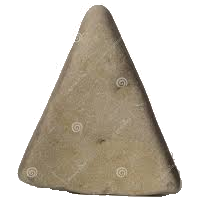
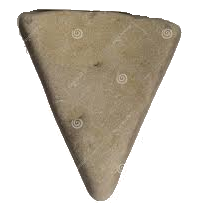
Force sync local -> remote main

diff --git a/transparencia.py b/transparencia.py
@@ -1,15 +1,16 @@
-from PIL import Image
+from PIL import Image, ImageFilter
 import sys
 
-def remover_fundo_solido(input_path, output_path, threshold=10):
+def remover_fundo_solido(input_path, output_path, threshold=10, remover_borda_branca=True, suavizar_bordas=True):
     """
     Transforma o fundo de cor sólida de uma imagem em transparente.
 
     Argumentos:
     input_path (str): Caminho para a imagem de entrada (JPG, PNG, etc.).
     output_path (str): Caminho para salvar a imagem de saída (será PNG).
-    threshold (int): Tolerância para cores 'semelhantes' ao fundo.
-                     Aumente se o fundo não for perfeitamente uniforme.
+    threshold (int): Tolerância para cores 'semelhantes' ao fundo (padrão: 10).
+    remover_borda_branca (bool): Remove bordas brancas/claras automaticamente (padrão: True).
+    suavizar_bordas (bool): Aplica transparência gradual nas bordas (padrão: True).
     """
     try:
         # Abrir a imagem
@@ -22,40 +23,49 @@ def remover_fundo_solido(input_path, output_path, threshold=10):
         return
 
     # Converter a imagem para RGBA (Vermelho, Verde, Azul, Alfa/Transparência)
-    # Isso é essencial para ter um canal de transparência.
     img = img.convert("RGBA")
+    width, height = img.size
 
     # Obter os dados de todos os pixels da imagem
     datas = img.getdata()
 
-    # Lista para armazenar os novos dados dos pixels
-    newData = []
-
     # Determinar a cor de fundo pegando o primeiro pixel (canto superior esquerdo)
-    # Assumimos que este pixel é representativo do fundo inteiro.
     bg_color = datas[0]
 
     print(f"Cor de fundo detectada (R,G,B,A): {bg_color}")
     print("Processando imagem...")
 
+    # Lista para armazenar os novos dados dos pixels
+    newData = []
+
     # Iterar por cada pixel
     for item in datas:
-        # Compara o pixel (R,G,B) atual com a cor de fundo (R,G,B)
-        # Usamos um 'threshold' (limite de tolerância) para casos em que
-        # o fundo não é 100% de uma única cor (ex: artefatos de JPG).
-        if abs(item[0] - bg_color[0]) <= threshold and \
-           abs(item[1] - bg_color[1]) <= threshold and \
-           abs(item[2] - bg_color[2]) <= threshold:
-            
-            # Se for 'fundo', define o pixel como transparente (Alfa = 0)
+        # Calcular a diferença de cor em relação ao fundo
+        diff = abs(item[0] - bg_color[0]) + abs(item[1] - bg_color[1]) + abs(item[2] - bg_color[2])
+
+        if diff <= threshold * 3:
+            # Pixel é do fundo - tornar transparente
             newData.append((item[0], item[1], item[2], 0))
+        elif suavizar_bordas and diff <= threshold * 6:
+            # Pixel está na transição (borda) - aplicar transparência gradual
+            # Quanto mais próximo do fundo, mais transparente
+            alpha = int((diff - threshold * 3) / (threshold * 3) * 255)
+            newData.append((item[0], item[1], item[2], min(255, max(0, alpha))))
         else:
-            # Se for 'objeto' (a moeda), mantém o pixel opaco (Alfa = 255)
-            # O 'item' já tem Alfa 255 por causa do .convert("RGBA")
+            # Pixel é do objeto - manter opaco
             newData.append(item)
 
     # Aplicar os novos dados de pixel à imagem
     img.putdata(newData)
+
+    # ✅ REMOVER BORDAS BRANCAS (múltiplas passadas para ser mais agressivo)
+    if remover_borda_branca:
+        print("Removendo bordas brancas (passada 1/3)...")
+        img = remover_bordas_brancas(img, threshold_branco=200, raio=2)
+        print("Removendo bordas brancas (passada 2/3)...")
+        img = remover_bordas_brancas(img, threshold_branco=180, raio=1)
+        print("Removendo bordas brancas (passada 3/3)...")
+        img = remover_bordas_brancas(img, threshold_branco=160, raio=1)
 
     # Salvar a nova imagem como PNG (que suporta transparência)
     try:
@@ -65,26 +75,94 @@ def remover_fundo_solido(input_path, output_path, threshold=10):
         print(f"Erro ao salvar a imagem: {e}")
 
 
+def remover_bordas_brancas(img, threshold_branco=220, raio=1):
+    """
+    Remove pixels brancos/claros que estão próximos de áreas transparentes.
+
+    Args:
+        img: Imagem PIL em modo RGBA
+        threshold_branco: Valor mínimo RGB para considerar "branco" (0-255)
+        raio: Raio de busca por pixels transparentes (1 = 3x3, 2 = 5x5, etc.)
+
+    Returns:
+        Imagem PIL processada
+    """
+    width, height = img.size
+    pixels = img.load()
+
+    # Criar uma cópia para não modificar enquanto lê
+    resultado = img.copy()
+    pixels_resultado = resultado.load()
+
+    removidos = 0
+
+    # Percorrer todos os pixels
+    for y in range(height):
+        for x in range(width):
+            r, g, b, a = pixels[x, y]
+
+            # Se o pixel já é transparente, pular
+            if a < 10:
+                continue
+
+            # Verificar se é um pixel claro/branco (todos os canais RGB altos)
+            is_branco = r >= threshold_branco and g >= threshold_branco and b >= threshold_branco
+
+            if is_branco:
+                # Verificar se está próximo de área transparente
+                tem_transparente_perto = False
+
+                # Verificar vizinhos em um raio maior
+                for dy in range(-raio, raio + 1):
+                    for dx in range(-raio, raio + 1):
+                        nx, ny = x + dx, y + dy
+
+                        # Verificar limites
+                        if 0 <= nx < width and 0 <= ny < height:
+                            _, _, _, na = pixels[nx, ny]
+
+                            # Se algum vizinho é transparente ou semi-transparente
+                            if na < 128:
+                                tem_transparente_perto = True
+                                break
+
+                    if tem_transparente_perto:
+                        break
+
+                # Se tem transparente perto, remover o pixel branco
+                if tem_transparente_perto:
+                    pixels_resultado[x, y] = (r, g, b, 0)
+                    removidos += 1
+
+    print(f"  -> {removidos} pixels brancos removidos (threshold={threshold_branco}, raio={raio})")
+    return resultado
+
+
 # --- Como usar o script ---
 if __name__ == "__main__":
     # Verifique se os nomes dos arquivos foram passados como argumentos
     if len(sys.argv) < 3:
-        print("Uso: python transparencia.py <imagem_de_entrada> <imagem_de_saida>")
-        print("Exemplo: python transparencia.py minha_moeda.jpg moeda_transparente.png")
-        
-        # --- Ou descomente as linhas abaixo para testar ---
-        # print("Executando teste padrão...")
-        # # Coloque o nome da sua imagem de entrada aqui
-        # input_file = "minha_moeda.jpg" 
-        # # Nome do arquivo de saída
-        # output_file = "moeda_transparente.png"
-        # # Ajuste a tolerância se necessário
-        # tolerancia = 20 
-        # remover_fundo_solido(input_file, output_file, tolerancia)
+        print("=" * 70)
+        print("SCRIPT PARA REMOVER FUNDO E BORDAS BRANCAS DE IMAGENS")
+        print("=" * 70)
+        print("\nUso: python transparencia.py <entrada> <saida> [tolerancia]")
+        print("\nExemplos:")
+        print("  python transparencia.py moeda.jpg moeda_transparente.png")
+        print("  python transparencia.py item.jpg item.png 15")
+        print("\nNovos recursos:")
+        print("  [OK] Remove fundo de cor solida")
+        print("  [OK] Remove bordas brancas automaticamente")
+        print("  [OK] Suaviza bordas com transparencia gradual (anti-aliasing)")
+        print("\nParâmetros:")
+        print("  entrada    : Arquivo de imagem (JPG, PNG, etc.)")
+        print("  saida      : Arquivo de saída PNG")
+        print("  tolerancia : Tolerância de cor 0-255 (padrão: 10)")
+        print("               Aumente se o fundo não estiver sendo removido")
+        print("=" * 70)
     else:
         input_file = sys.argv[1]
         output_file = sys.argv[2]
-        
+
         # Opcional: permitir passar a tolerância como terceiro argumento
         tolerancia = 10
         if len(sys.argv) > 3:
@@ -92,5 +170,12 @@ if __name__ == "__main__":
                 tolerancia = int(sys.argv[3])
             except ValueError:
                 print(f"Aviso: Tolerância '{sys.argv[3]}' inválida. Usando padrão de {tolerancia}.")
-                
-        remover_fundo_solido(input_file, output_file, tolerancia)
+
+        print(f"\n{'='*70}")
+        print(f"Processando: {input_file}")
+        print(f"Tolerância: {tolerancia}")
+        print(f"{'='*70}\n")
+
+        remover_fundo_solido(input_file, output_file, tolerancia,
+                           remover_borda_branca=True,
+                           suavizar_bordas=True)

diff --git a/transparencia-original.py b/transparencia-original.py
@@ -1,0 +1,96 @@
+from PIL import Image
+import sys
+
+def remover_fundo_solido(input_path, output_path, threshold=10):
+    """
+    Transforma o fundo de cor sólida de uma imagem em transparente.
+
+    Argumentos:
+    input_path (str): Caminho para a imagem de entrada (JPG, PNG, etc.).
+    output_path (str): Caminho para salvar a imagem de saída (será PNG).
+    threshold (int): Tolerância para cores 'semelhantes' ao fundo.
+                     Aumente se o fundo não for perfeitamente uniforme.
+    """
+    try:
+        # Abrir a imagem
+        img = Image.open(input_path)
+    except FileNotFoundError:
+        print(f"Erro: O arquivo '{input_path}' não foi encontrado.")
+        return
+    except Exception as e:
+        print(f"Erro ao abrir a imagem: {e}")
+        return
+
+    # Converter a imagem para RGBA (Vermelho, Verde, Azul, Alfa/Transparência)
+    # Isso é essencial para ter um canal de transparência.
+    img = img.convert("RGBA")
+
+    # Obter os dados de todos os pixels da imagem
+    datas = img.getdata()
+
+    # Lista para armazenar os novos dados dos pixels
+    newData = []
+
+    # Determinar a cor de fundo pegando o primeiro pixel (canto superior esquerdo)
+    # Assumimos que este pixel é representativo do fundo inteiro.
+    bg_color = datas[0]
+
+    print(f"Cor de fundo detectada (R,G,B,A): {bg_color}")
+    print("Processando imagem...")
+
+    # Iterar por cada pixel
+    for item in datas:
+        # Compara o pixel (R,G,B) atual com a cor de fundo (R,G,B)
+        # Usamos um 'threshold' (limite de tolerância) para casos em que
+        # o fundo não é 100% de uma única cor (ex: artefatos de JPG).
+        if abs(item[0] - bg_color[0]) <= threshold and \
+           abs(item[1] - bg_color[1]) <= threshold and \
+           abs(item[2] - bg_color[2]) <= threshold:
+            
+            # Se for 'fundo', define o pixel como transparente (Alfa = 0)
+            newData.append((item[0], item[1], item[2], 0))
+        else:
+            # Se for 'objeto' (a moeda), mantém o pixel opaco (Alfa = 255)
+            # O 'item' já tem Alfa 255 por causa do .convert("RGBA")
+            newData.append(item)
+
+    # Aplicar os novos dados de pixel à imagem
+    img.putdata(newData)
+
+    # Salvar a nova imagem como PNG (que suporta transparência)
+    try:
+        img.save(output_path, "PNG")
+        print(f"Sucesso! Imagem salva em '{output_path}'")
+    except Exception as e:
+        print(f"Erro ao salvar a imagem: {e}")
+
+
+# --- Como usar o script ---
+if __name__ == "__main__":
+    # Verifique se os nomes dos arquivos foram passados como argumentos
+    if len(sys.argv) < 3:
+        print("Uso: python transparencia.py <imagem_de_entrada> <imagem_de_saida>")
+        print("Exemplo: python transparencia.py minha_moeda.jpg moeda_transparente.png")
+        
+        # --- Ou descomente as linhas abaixo para testar ---
+        # print("Executando teste padrão...")
+        # # Coloque o nome da sua imagem de entrada aqui
+        # input_file = "minha_moeda.jpg" 
+        # # Nome do arquivo de saída
+        # output_file = "moeda_transparente.png"
+        # # Ajuste a tolerância se necessário
+        # tolerancia = 20 
+        # remover_fundo_solido(input_file, output_file, tolerancia)
+    else:
+        input_file = sys.argv[1]
+        output_file = sys.argv[2]
+        
+        # Opcional: permitir passar a tolerância como terceiro argumento
+        tolerancia = 10
+        if len(sys.argv) > 3:
+            try:
+                tolerancia = int(sys.argv[3])
+            except ValueError:
+                print(f"Aviso: Tolerância '{sys.argv[3]}' inválida. Usando padrão de {tolerancia}.")
+                
+        remover_fundo_solido(input_file, output_file, tolerancia)
